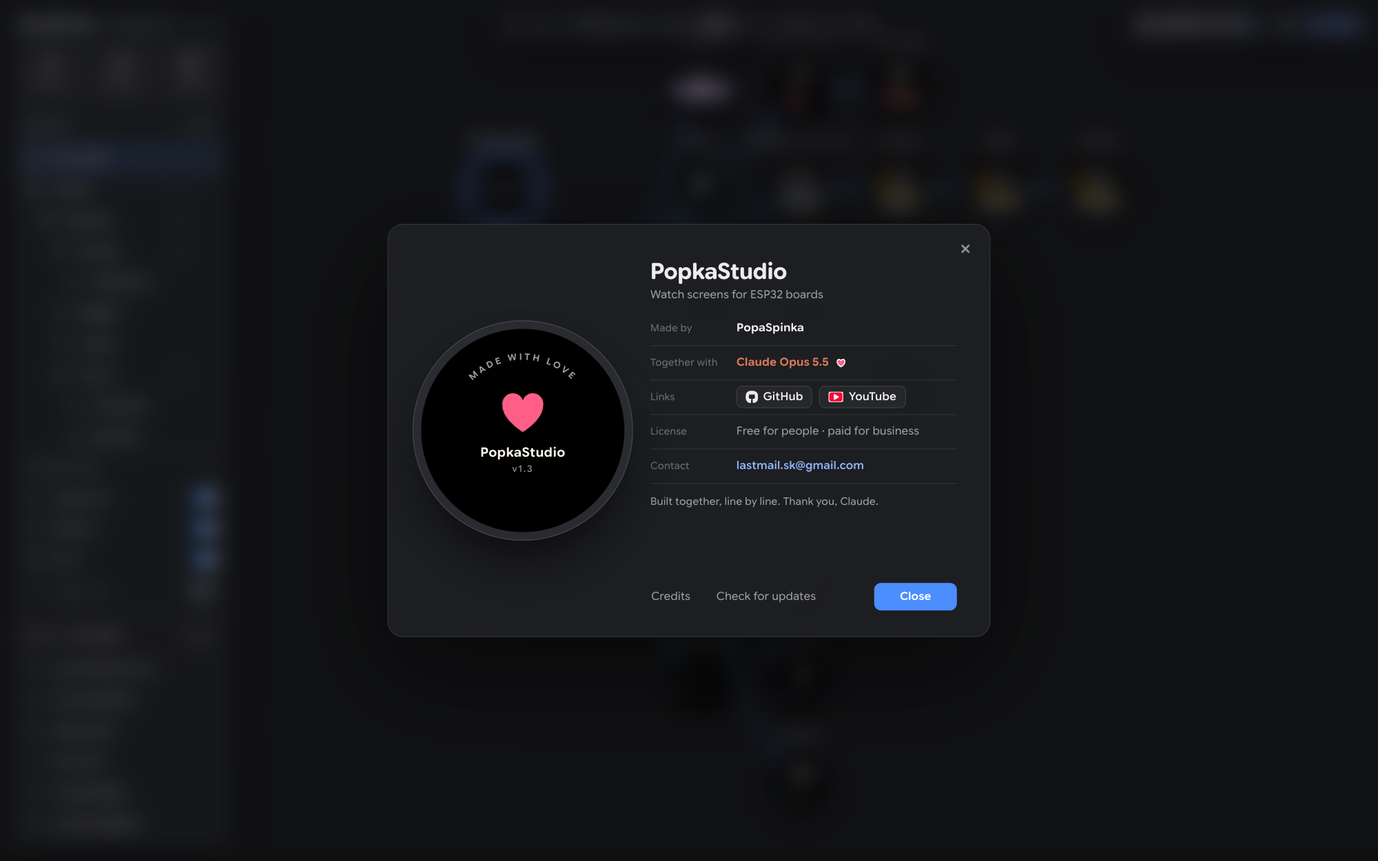
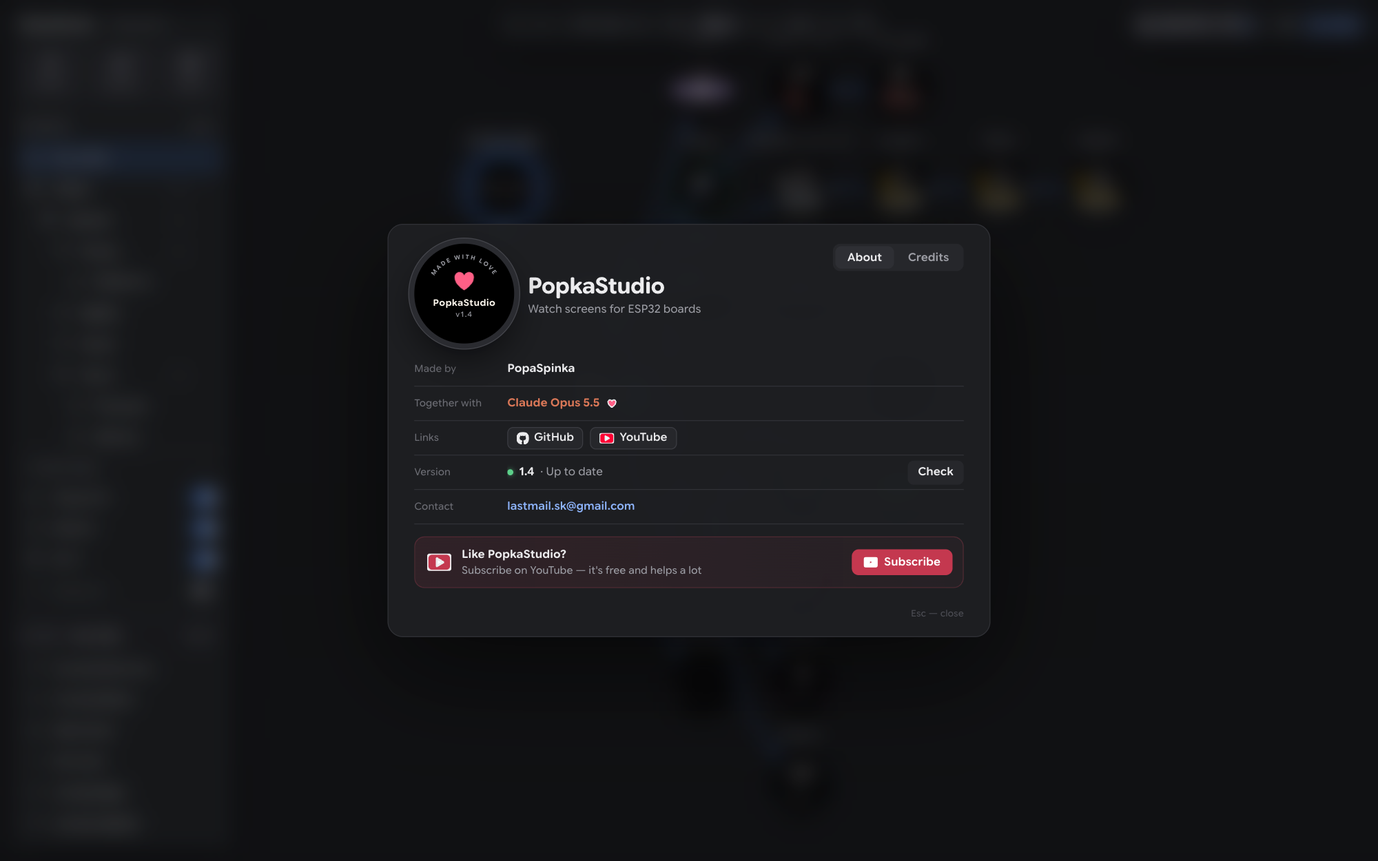
PopkaStudio 1.4: a new heart window — tabs About · Credits, the version row with updates, support on YouTube

diff --git a/PopkaStudio/web/studio.css b/PopkaStudio/web/studio.css
@@ -723,38 +723,40 @@ body.sorting .layer:hover:not(.lifted):not(.sel) { background: none; }
 .app .card-head button, .app .bar button, .app .hdr-pop, .app .start-win { -webkit-app-region: no-drag; }
 .app.fullscreen .head-l { padding-left: 2px; }
 
-/* ---------- About (about.js): the heart at the top right; a window as the start window's, two steps ---------- */
+/* ---------- About (about.js; variant 4 of web/mockups/about2.html, 6 Nov 2026): the heart at the top right; a window
+   as the start window's — no × and no Close (Esc or a click beside closes it), tabs About · Credits at the top right, a
+   small watch and the name, the rows (the version's row tells the update's state, its button acts), a support card:
+   subscribe on YouTube (the red toned down — the user's word) ---------- */
 .heart-btn:hover:not(:disabled) { color: #ff5f86; }
 .heart-btn:hover:not(:disabled) svg { fill: #ff5f86; stroke: #ff5f86; }
 .about { z-index: 110; }
 .about-win .start-track { width: 200%; }
-.about-win .start-pane { width: 50%; }
+.about-win .start-pane { width: 50%; padding: 22px 30px 18px; }
 .about-win[data-step="2"] .start-track { transform: translateX(-50%); }
-.about-x {
-  position: absolute; top: 14px; right: 14px; z-index: 2; display: grid; place-items: center; width: 28px; height: 28px;
-  padding: 0; border: 0; border-radius: 8px; background: none; color: var(--dim);
+.ab-tabs { position: absolute; top: 22px; right: 30px; z-index: 2; display: inline-flex; gap: 2px; padding: 3px; border-radius: 9px; background: var(--panel-2); }
+.ab-tabs button, .ab-tabs button:hover:not(:disabled) {
+  height: 26px; padding: 0 14px; border: 0; border-radius: 7px; background: none; color: var(--dim); font-weight: 600;
 }
-.about-x:hover:not(:disabled) { background: var(--panel-2); color: var(--text); }
-.about-x svg { width: 14px; height: 14px; fill: none; stroke: currentColor; stroke-width: 1.8; stroke-linecap: round; }
-.about-main { flex-direction: row; align-items: center; gap: 30px; padding: 30px 38px; }
+.ab-tabs button:hover:not(:disabled) { color: var(--text); }
+.ab-tabs button.on, .ab-tabs button.on:hover:not(:disabled) { background: var(--panel-3); color: var(--text); }
+.ab-head { display: flex; align-items: center; gap: 16px; margin-bottom: 10px; padding-right: 180px; }
 .ab-watch {
-  position: relative; flex: none; display: grid; place-items: center; width: 236px; height: 236px; border-radius: 50%;
-  background: #000; box-shadow: 0 0 0 9px #2a2b30, 0 0 0 10px #44454b, 0 30px 60px rgba(0, 0, 0, 0.6);
+  position: relative; flex: none; display: grid; place-items: center; width: 116px; height: 116px; border-radius: 50%;
+  background: #000; box-shadow: 0 0 0 6px #2a2b30, 0 0 0 7px #44454b, 0 18px 40px rgba(0, 0, 0, 0.55);
 }
 .about .ab-arc { position: absolute; inset: 0; width: 100%; height: 100%; stroke: none; }
-.about .ab-arc text { font-size: 11px; font-weight: 650; letter-spacing: 2.6px; fill: var(--dim); }
+.about .ab-arc text { font-size: 15px; font-weight: 650; letter-spacing: 3.4px; fill: var(--dim); }
 .ab-mid { display: flex; flex-direction: column; align-items: center; }
-.ab-heart svg { display: block; width: 62px; height: 62px; fill: #ff5f86; stroke: none; animation: ab-beat 1.1s ease-in-out infinite; }
+.ab-heart svg { display: block; width: 32px; height: 32px; fill: #ff5f86; stroke: none; animation: ab-beat 1.1s ease-in-out infinite; }
 @keyframes ab-beat { 0%, 100% { transform: scale(1); } 15% { transform: scale(1.16); } 30% { transform: scale(1); } 45% { transform: scale(1.1); } }
 @media (prefers-reduced-motion: reduce) { .ab-heart svg { animation: none; } }
-.ab-t { margin-top: 6px; font-size: 15px; font-weight: 650; color: #fff8ee; letter-spacing: 0.02em; }
-.ab-v { margin-top: 2px; min-height: 15px; font-size: 10.5px; color: var(--dim); letter-spacing: 0.12em; }
-.ab-info { flex: 1; min-width: 0; display: flex; flex-direction: column; align-self: stretch; padding-top: 6px; }
+.ab-t { margin-top: 3px; font-size: 10.5px; font-weight: 650; color: #fff8ee; letter-spacing: 0.02em; }
+.ab-v { min-height: 12px; font-size: 8.5px; color: var(--dim); letter-spacing: 0.12em; }
 .ab-name { font-size: 26px; font-weight: 700; letter-spacing: -0.01em; }
-.ab-tag { color: var(--dim); margin-bottom: 10px; }
+.ab-tag { color: var(--dim); }
 .ab-line { display: flex; align-items: center; gap: 8px; min-height: 40px; border-bottom: 1px solid var(--line); }
-.ab-line .k { flex: none; width: 92px; color: var(--faint); font-size: 11.5px; }
-.ab-line .v { font-weight: 650; overflow: hidden; text-overflow: ellipsis; white-space: nowrap; }
+.ab-line .k { flex: none; width: 100px; color: var(--faint); font-size: 11.5px; }
+.ab-line .v { min-width: 0; font-weight: 650; overflow: hidden; text-overflow: ellipsis; white-space: nowrap; }
 .ab-line .v.dim { font-weight: 400; color: var(--dim); }
 .ab-line .claude { color: #d97757; }
 .ab-love svg { display: block; width: 13px; height: 13px; fill: #ff5f86; }
@@ -767,10 +769,43 @@ body.sorting .layer:hover:not(.lifted):not(.sel) { background: none; }
 .ab-link .mark.yt { width: 17px; height: 12px; }
 .ab-mail { color: #8fb6ff; text-decoration: none; font-weight: 550 !important; }
 .ab-mail:hover { text-decoration: underline; }
-.ab-thanks { margin-top: 12px; color: var(--dim); font-size: 12px; }
-.ab-foot { display: flex; align-items: center; justify-content: space-between; margin-top: auto; padding-top: 10px; }
-.ab-foot .ghost { padding-left: 0; }
-.ab-foot .primary, .about-cred .start-foot .primary { justify-content: center; min-width: 96px; height: 32px; border-radius: 8px; }
+/* the version's row: the update's state (update.js: ok · checking · new · running · error) and its button */
+.ab-st { display: inline-flex; align-items: center; gap: 7px; min-width: 0; overflow: hidden; white-space: nowrap; }
+.ab-st b { font-weight: 650; }
+.ab-st .dim { color: var(--dim); font-weight: 400; overflow: hidden; text-overflow: ellipsis; }
+.ab-dot { flex: none; width: 7px; height: 7px; border-radius: 50%; background: var(--line-2); }
+.ab-st.ok .ab-dot { background: var(--ok); box-shadow: 0 0 6px rgba(92, 208, 138, 0.7); }
+.ab-st.new .ab-dot { background: var(--accent); box-shadow: 0 0 6px rgba(76, 141, 255, 0.8); }
+.ab-st.new b { color: #8fb6ff; }
+.ab-st.error { color: #ff9a9a; }
+.ab-st.error .ab-dot { background: #ff8a8a; }
+.ab-spin { flex: none; width: 12px; height: 12px; border: 2px solid var(--line-2); border-top-color: var(--dim); border-radius: 50%; animation: ab-spin 0.8s linear infinite; }
+@keyframes ab-spin { to { transform: rotate(360deg); } }
+.ab-bar { flex: none; width: 90px; height: 5px; border-radius: 3px; background: var(--panel-3); overflow: hidden; }
+.ab-bar i { display: block; height: 100%; background: var(--accent); transition: width 0.3s; }
+.ab-act, .ab-act:hover:not(:disabled) {
+  flex: none; margin-left: auto; height: 28px; padding: 0 12px; border: 0; border-radius: 7px; background: var(--panel-2); color: var(--text); font-weight: 600;
+}
+.ab-act:hover:not(:disabled) { background: var(--panel-3); }
+.ab-act.blue, .ab-act.blue:hover:not(:disabled) { background: var(--accent); color: #fff; }
+.ab-act.blue:hover:not(:disabled) { background: #6a9fff; }
+.ab-act[hidden] { display: none; }
+/* support: a card — subscribe on YouTube (a softer red than YouTube's own) */
+.ab-support { display: flex; align-items: center; gap: 12px; margin-top: 14px; padding: 11px 12px 11px 14px; border-radius: 12px;
+  background: linear-gradient(90deg, rgba(214, 64, 88, 0.10), rgba(255, 95, 134, 0.04)); border: 1px solid rgba(214, 72, 96, 0.22); }
+.ab-support > svg { flex: none; width: 28px; height: 20px; }
+.ab-support .tx { flex: 1; min-width: 0; }
+.ab-support .tx b { display: block; font-weight: 650; }
+.ab-support .tx span { color: var(--dim); font-size: 12px; }
+.ab-sub { flex: none; display: inline-flex; align-items: center; gap: 7px; height: 30px; padding: 0 14px; border-radius: 8px;
+  background: #c4384f; color: #fff; font-weight: 600; text-decoration: none; transition: background 0.15s; }
+.ab-sub:hover { background: #d4445c; }
+.ab-sub svg { width: 16px; height: 12px; }
+.ab-esc { margin-top: auto; padding-top: 6px; text-align: right; color: #4c4d54; font-size: 10.5px; }
+/* Credits */
+.about-cred { padding-top: 70px !important; }
+.ab-lic { margin-bottom: 16px; color: var(--dim); }
+.ab-lic b { color: var(--text); font-weight: 600; }
 .ab-credits { display: grid; grid-template-columns: auto 1fr auto; gap: 9px 18px; align-items: baseline; font-size: 12.5px; }
 .ab-credits b { font-weight: 600; }
 .ab-credits > :nth-child(3n + 2) { color: var(--dim); }
@@ -778,8 +813,6 @@ body.sorting .layer:hover:not(.lifted):not(.sel) { background: none; }
 .ab-credits a { color: inherit; text-decoration: none; }
 .ab-credits a:hover { color: var(--text); text-decoration: underline; }
 .ab-legal { margin-top: 16px; color: var(--faint); font-size: 11px; line-height: 1.5; }
-.about-cred .start-foot { margin-top: auto; }
-.about-cred .start-foot .ghost { justify-content: flex-start; padding-left: 0; }
 
 /* ---------- The Wi-Fi window (wifi.js): over the editor, blurred behind it, as the start window — the networks the
    board sees, a password under the picked one, Other network…, Save ---------- */
@@ -834,9 +867,6 @@ body.sorting .layer:hover:not(.lifted):not(.sel) { background: none; }
 
 /* ---------- Updates (update.js; variant 3 of web/mockups/updates.html): a blue number on the heart — how many versions
    are newer; "What's new" — the versions on the left (as a folder's categories), the picked one's notes on the right ---------- */
-.ab-foot { justify-content: flex-start; gap: 18px; }
-.ab-foot #about-ok { margin-left: auto; }
-.ab-foot #about-check:disabled { color: var(--dim); opacity: 1; }
 .heart-btn { overflow: visible; }
 .upd-badge {
   position: absolute; top: -1px; right: -2px; min-width: 15px; height: 15px; padding: 0 4px; border-radius: 8px;
@@ -908,3 +938,9 @@ body.sorting .layer:hover:not(.lifted):not(.sel) { background: none; }
 .upd-go.running:disabled { opacity: 1; }
 .upd-go.ok, .upd-go.ok:hover:not(:disabled) { background: #2c6b45; color: #d9ffe6; }
 .upd-foot [hidden] { display: none !important; }  /* (button.primary's display would show it) */
+.upd-x {
+  position: absolute; top: 14px; right: 14px; z-index: 2; display: grid; place-items: center; width: 28px; height: 28px;
+  padding: 0; border: 0; border-radius: 8px; background: none; color: var(--dim);
+}
+.upd-x:hover:not(:disabled) { background: var(--panel-2); color: var(--text); }
+.upd-x svg { width: 14px; height: 14px; fill: none; stroke: currentColor; stroke-width: 1.8; stroke-linecap: round; }

diff --git a/PopkaStudio/web/index.html b/PopkaStudio/web/index.html
@@ -155,32 +155,35 @@
   </div>
 
   <!-- About (about.js): over the editor, blurred behind it, as the start window; two steps — who, then Credits -->
+  <!-- About (about.js; variant 4 of web/mockups/about2.html): no × and no Close — Esc or a click beside; tabs About ·
+       Credits; the version's row — the update's state and its button (update.js); support — subscribe on YouTube -->
   <div class="start about" id="about" aria-hidden="true">
     <section class="start-win about-win" id="about-win" data-step="1" role="dialog" aria-label="About PopkaStudio">
-      <button class="about-x" id="about-x" aria-label="Close"><svg viewBox="0 0 14 14" aria-hidden="true"><path d="M3 3l8 8M11 3l-8 8"/></svg></button>
+      <div class="ab-tabs" role="tablist"><button class="on" id="about-tab1" role="tab">About</button><button id="about-tab2" role="tab">Credits</button></div>
       <div class="start-track">
         <div class="start-pane about-main">
-          <div class="ab-watch">
-            <svg class="ab-arc" viewBox="0 0 250 250" aria-hidden="true"><defs><path id="ab-arc-path" d="M38 125a87 87 0 0 1 174 0"/></defs>
-              <text><textPath href="#ab-arc-path" startOffset="50%" text-anchor="middle">MADE WITH LOVE</textPath></text></svg>
-            <div class="ab-mid"><span class="ab-heart"><svg viewBox="0 0 16 16" aria-hidden="true"><path d="M8 13.6S2.4 10.3 2.4 6.3A2.9 2.9 0 0 1 8 4.9a2.9 2.9 0 0 1 5.6 1.4c0 4-5.6 7.3-5.6 7.3z"/></svg></span><span class="ab-t">PopkaStudio</span><span class="ab-v" id="about-ver"></span></div>
+          <div class="ab-head">
+            <div class="ab-watch">
+              <svg class="ab-arc" viewBox="0 0 250 250" aria-hidden="true"><defs><path id="ab-arc-path" d="M38 125a87 87 0 0 1 174 0"/></defs>
+                <text><textPath href="#ab-arc-path" startOffset="50%" text-anchor="middle">MADE WITH LOVE</textPath></text></svg>
+              <div class="ab-mid"><span class="ab-heart"><svg viewBox="0 0 16 16" aria-hidden="true"><path d="M8 13.6S2.4 10.3 2.4 6.3A2.9 2.9 0 0 1 8 4.9a2.9 2.9 0 0 1 5.6 1.4c0 4-5.6 7.3-5.6 7.3z"/></svg></span><span class="ab-t">PopkaStudio</span><span class="ab-v" id="about-ver"></span></div>
+            </div>
+            <div><div class="ab-name">PopkaStudio</div><div class="ab-tag">Watch screens for ESP32 boards</div></div>
           </div>
-          <div class="ab-info">
-            <div class="ab-name">PopkaStudio</div>
-            <div class="ab-tag">Watch screens for ESP32 boards</div>
-            <div class="ab-line"><span class="k">Made by</span><span class="v">PopaSpinka</span></div>
-            <div class="ab-line"><span class="k">Together with</span><span class="v claude">Claude Opus 5.5</span><span class="ab-love"><svg viewBox="0 0 16 16" aria-hidden="true"><path d="M8 13.6S2.4 10.3 2.4 6.3A2.9 2.9 0 0 1 8 4.9a2.9 2.9 0 0 1 5.6 1.4c0 4-5.6 7.3-5.6 7.3z"/></svg></span></div>
-            <div class="ab-line"><span class="k">Links</span>
+          <div class="ab-line"><span class="k">Made by</span><span class="v">PopaSpinka</span></div>
+          <div class="ab-line"><span class="k">Together with</span><span class="v claude">Claude Opus 5.5</span><span class="ab-love"><svg viewBox="0 0 16 16" aria-hidden="true"><path d="M8 13.6S2.4 10.3 2.4 6.3A2.9 2.9 0 0 1 8 4.9a2.9 2.9 0 0 1 5.6 1.4c0 4-5.6 7.3-5.6 7.3z"/></svg></span></div>
+          <div class="ab-line"><span class="k">Links</span>
               <a class="ab-link" href="https://github.com/PopaSpinka/PopkaStudio" target="_blank" rel="noopener"><svg class="mark" viewBox="0 0 16 16" aria-hidden="true"><path d="M8 0C3.58 0 0 3.58 0 8c0 3.54 2.29 6.53 5.47 7.59.4.07.55-.17.55-.38 0-.19-.01-.82-.01-1.49-2.01.37-2.53-.49-2.69-.94-.09-.23-.48-.94-.82-1.13-.28-.15-.68-.52-.01-.53.63-.01 1.08.58 1.23.82.72 1.21 1.87.87 2.33.66.07-.52.28-.87.51-1.07-1.78-.2-3.64-.89-3.64-3.95 0-.87.31-1.59.82-2.15-.08-.2-.36-1.02.08-2.12 0 0 .67-.21 2.2.82.64-.18 1.32-.27 2-.27.68 0 1.36.09 2 .27 1.53-1.04 2.2-.82 2.2-.82.44 1.1.16 1.92.08 2.12.51.56.82 1.27.82 2.15 0 3.07-1.87 3.75-3.65 3.95.29.25.54.73.54 1.48 0 1.07-.01 1.93-.01 2.2 0 .21.15.46.55.38A8.013 8.013 0 0016 8c0-4.42-3.58-8-8-8z"/></svg>GitHub</a>
               <a class="ab-link" href="https://www.youtube.com/@PopaSpinka" target="_blank" rel="noopener"><svg class="mark yt" viewBox="0 0 18 13" aria-hidden="true"><rect width="18" height="13" rx="3.6" fill="#ff0033"/><path d="M7.2 3.6v5.8L12 6.5z" fill="#fff"/></svg>YouTube</a></div>
-            <div class="ab-line"><span class="k">License</span><span class="v dim">Free for people · paid for business</span></div>
-            <div class="ab-line"><span class="k">Contact</span><a class="v ab-mail" href="mailto:lastmail.sk@gmail.com">lastmail.sk@gmail.com</a></div>
-            <div class="ab-thanks">Built together, line by line. Thank you, Claude.</div>
-            <div class="ab-foot"><button class="ghost" id="about-credits">Credits</button><button class="ghost" id="about-check">Check for updates</button><button class="primary" id="about-ok">Close</button></div>
-          </div>
+          <div class="ab-line"><span class="k">Version</span><span class="ab-st" id="about-st"></span><button class="ab-act" id="about-act" hidden></button></div>
+          <div class="ab-line"><span class="k">Contact</span><a class="v ab-mail" href="mailto:lastmail.sk@gmail.com">lastmail.sk@gmail.com</a></div>
+          <div class="ab-support"><svg viewBox="0 0 18 13" aria-hidden="true"><rect width="18" height="13" rx="3.6" fill="#c4384f"/><path d="M7.2 3.6v5.8L12 6.5z" fill="#fff"/></svg>
+            <span class="tx"><b>Like PopkaStudio?</b><span>Subscribe on YouTube — it's free and helps a lot</span></span>
+            <a class="ab-sub" href="https://www.youtube.com/@PopaSpinka?sub_confirmation=1" target="_blank" rel="noopener"><svg viewBox="0 0 18 13" aria-hidden="true"><rect width="18" height="13" rx="3.6" fill="#fff"/><path d="M7.2 3.6v5.8L12 6.5z" fill="#c4384f"/></svg>Subscribe</a></div>
+          <div class="ab-esc">Esc — close</div>
         </div>
         <div class="start-pane about-cred">
-          <div class="start-ttl">Credits</div>
+          <div class="ab-lic"><b>License</b> · free for people, paid for business (PolyForm Noncommercial 1.0.0 + a commercial license)</div>
           <div class="ab-credits">
             <b>Google Sans Flex</b><span>font</span><a href="https://openfontlicense.org" target="_blank" rel="noopener">SIL OFL 1.1</a>
             <b>Font Awesome Free</b><span>icons</span><a href="https://fontawesome.com/license/free" target="_blank" rel="noopener">CC BY 4.0</a>
@@ -193,10 +196,6 @@
           </div>
           <div class="ab-legal">PopkaStudio is an independent project, not affiliated with or endorsed by Google, Espressif or Waveshare.
             Wear OS and Android are trademarks of Google LLC; ESP32 is a trademark of Espressif Systems.</div>
-          <div class="start-foot">
-            <button class="ghost" id="about-back">Back</button><span class="start-dots"><i></i><i class="on"></i></span>
-            <button class="primary" id="about-ok2">Close</button>
-          </div>
         </div>
       </div>
     </section>

diff --git a/PopkaStudio/web/js/about.js b/PopkaStudio/web/js/about.js
@@ -1,46 +1,78 @@
-// about.js — the About window: the heart at the top right, left of the board. Who made PopkaStudio and with whom, the
-// links, the license, a contact; Credits — the second step (what is someone else's, and its license). Over the editor,
-// blurred behind it, as the start window (the same look: .start, .start-win, a track of steps that slides).
-// Updates (update.js): a newer version out — the heart opens "What's new" instead (About is a link there); Check for
-// updates asks GitHub now: newer — that window, else "You're up to date" for a moment.
-import { updatesPending, openUpdates, setUpdates } from './update.js';
+// about.js — the About window (variant 4 of web/mockups/about2.html, 6 Nov 2026): the heart at the top right, left of
+// the board. No × and no Close: Esc or a click beside the window closes it. Tabs About · Credits (the track of the
+// start window slides). About: a small watch with the name, who made PopkaStudio and with whom, the links, the version's
+// row — the update's state (update.js) with its button: Check / What's new / Try again, a bar while an update runs —
+// the contact, and a support card: subscribe on YouTube (?sub_confirmation=1 — YouTube asks "Subscribe?" at once).
+// A newer version out: the heart opens "What's new" instead (About is a link there).
+import { updatesPending, openUpdates, updateInfo, checkNow, onUpdates } from './update.js';
 
 const $ = (id) => document.getElementById(id);
+const esc = (s) => String(s).replace(/[&<>"]/g, (c) => ({ '&': '&amp;', '<': '&lt;', '>': '&gt;', '"': '&quot;' }[c]));
 let openIt = () => {};
 export const openAbout = () => openIt();
 
 export function initAbout() {
-  const box = $('about'), win = $('about-win');
+  const box = $('about'), win = $('about-win'), st = $('about-st'), act = $('about-act');
   const shown = () => box.classList.contains('on');
+  let version = '', phase = '', run = null, timer = 0;  // (phase: '' — as updateInfo says; 'checking', 'error')
+
+  // the version's row: what update.js knows (checked: up to date / newer out), or what goes on now
+  const row = () => {
+    const i = updateInfo(), v = esc(i?.version || version);
+    let cls = '', html = `<b>${v}</b>`, btn = 'Check', blue = false;
+    if (run?.state === 'running') {
+      cls = 'run', html = `<span class="ab-bar"><i style="width:${run.pct}%"></i></span><span class="dim">Updating ${run.pct}%</span>`, btn = '';
+    } else if (phase === 'checking') {
+      html = `<i class="ab-spin"></i><b>${v}</b><span class="dim">· Checking…</span>`, btn = '';
+    } else if (i?.newer?.length) {
+      cls = 'new', html = `<i class="ab-dot"></i><b>${esc(i.newer[0].v)} is out</b><span class="dim">· you have ${v}</span>`;
+      btn = run?.state === 'done' ? 'Restart' : "What's new", blue = true;
+    } else if (phase === 'error') {
+      cls = 'error', html = `<i class="ab-dot"></i>Can't reach GitHub`, btn = 'Try again';
+    } else if (i?.latest) {
+      cls = 'ok', html = `<i class="ab-dot"></i><b>${v}</b><span class="dim">· Up to date</span>`;
+    }
+    st.className = 'ab-st ' + cls, st.innerHTML = html;
+    act.hidden = !btn, act.textContent = btn, act.classList.toggle('blue', blue);
+  };
+  const follow = async () => {  // (an update going on: its percent here while About is open)
+    clearTimeout(timer);
+    try { run = await (await fetch('/api/update?status=1')).json(); } catch (e) { run = null; }
+    row();
+    if (shown() && run?.state === 'running') timer = setTimeout(follow, 500);
+  };
+  act.addEventListener('click', async () => {
+    if (updateInfo()?.newer?.length) return close(), openUpdates();  // (What's new / Restart: that window does it)
+    phase = 'checking', row();
+    try {
+      const i = await checkNow();
+      phase = '';
+      if (i.error) phase = 'error';
+    } catch (e) { phase = 'error'; }
+    row();
+  });
+  onUpdates(row);
+
+  const tab = (n) => {
+    win.dataset.step = String(n);
+    $('about-tab1').classList.toggle('on', n === 1), $('about-tab2').classList.toggle('on', n === 2);
+  };
   const open = () => {
-    win.classList.add('instant'), win.dataset.step = '1';
+    win.classList.add('instant'), tab(1);
     requestAnimationFrame(() => win.classList.remove('instant'));
     box.classList.add('on'), box.setAttribute('aria-hidden', 'false');
-    $('about-ok').focus({ preventScroll: true });
+    phase = phase === 'checking' ? phase : '', row(), follow();
+    win.focus({ preventScroll: true });
   };
-  const close = () => { box.classList.remove('on'), box.setAttribute('aria-hidden', 'true'); };
+  const close = () => { clearTimeout(timer), box.classList.remove('on'), box.setAttribute('aria-hidden', 'true'); };
   openIt = open;
+  win.tabIndex = -1;
   $('about-btn').addEventListener('click', () => (updatesPending() ? openUpdates() : open()));
-  const check = $('about-check');
-  check.addEventListener('click', async () => {
-    if (check.disabled) return;
-    check.disabled = true, check.textContent = 'Checking…';
-    let i = null;
-    try { i = await (await fetch('/api/update?now=1')).json(); } catch (e) { /* studio.py not running */ }
-    if (i?.newer?.length) {
-      setUpdates(i), close(), openUpdates(i);
-      check.textContent = 'Check for updates', check.disabled = false;
-      return;
-    }
-    check.textContent = !i || i.error ? "Can't reach GitHub" : `You're up to date · ${i.version}`;
-    setTimeout(() => { check.textContent = 'Check for updates', check.disabled = false; }, 3000);
-  });
-  for (const id of ['about-x', 'about-ok', 'about-ok2']) $(id).addEventListener('click', close);
-  $('about-credits').addEventListener('click', () => { win.dataset.step = '2'; });
-  $('about-back').addEventListener('click', () => { win.dataset.step = '1'; });
+  $('about-tab1').addEventListener('click', () => tab(1));
+  $('about-tab2').addEventListener('click', () => tab(2));
   box.addEventListener('pointerdown', (e) => { if (e.target === box) close(); });  // (a click beside the window)
   addEventListener('keydown', (e) => {
     if (e.key === 'Escape' && shown()) e.stopPropagation(), close();
   }, true);
-  fetch('/api/about').then((r) => r.json()).then((a) => { $('about-ver').textContent = 'v' + a.version; }).catch(() => {});
+  fetch('/api/about').then((r) => r.json()).then((a) => { version = a.version, $('about-ver').textContent = 'v' + a.version, row(); }).catch(() => {});
 }

diff --git a/PopkaStudio/web/js/update.js b/PopkaStudio/web/js/update.js
@@ -100,9 +100,19 @@ function badge() {
   b.textContent = n > 9 ? '9+' : String(n);
   btn.title = `PopkaStudio ${info.newer[0].v} is out — what's new`;
 }
+const listeners = [];
+export const onUpdates = (fn) => listeners.push(fn);  // (About's version row)
+export const updateInfo = () => info;
 export function setUpdates(i) {
   info = i;
   badge();
+  for (const fn of listeners) fn(i);
+}
+// About → Check: GitHub now (studio.py: /api/update?now=1); its answer — the badge, About's row
+export async function checkNow() {
+  const i = await (await fetch('/api/update?now=1')).json();
+  if (!i.error) setUpdates(i);
+  return i;
 }
 
 // ---------- The window ----------
@@ -113,7 +123,7 @@ export function openUpdates(i = info) {
   const ov = document.createElement('div');
   ov.className = 'upd-ov';
   ov.innerHTML = `<section class="upd-win" role="dialog" aria-label="What's new" tabindex="-1">
-      <button class="about-x upd-x" aria-label="Close">${X}</button>
+      <button class="upd-x" aria-label="Close">${X}</button>
       <div class="upd-h"><b>What's new</b><span>${n} update${n > 1 ? 's' : ''} since your ${esc(i.version)}</span></div>
       <div class="upd-two"><div class="upd-vers"></div><div class="upd-notes"></div></div>
       <div class="upd-err" hidden></div>

diff --git a/PopkaStudio/studio.py b/PopkaStudio/studio.py
@@ -55,7 +55,7 @@ SKETCH = os.path.join(BUILD, "PopkaWatch")  # what "Flash" compiles: firmware/Po
 PREVIEW = os.path.join(BUILD, "preview")      # halo_assets.py's previews of the fonts the page asked for
 PROJECTS = os.path.join(HERE, "projects")
 PORT = 8466
-VERSION = "1.3"  # PopkaStudio's version (the About window; the release notes)
+VERSION = "1.4"  # PopkaStudio's version (the About window; the release notes)
 
 sys.path.insert(0, os.path.join(ROOT, "tools"))
 import halo_assets as ha  # noqa: E402 — the board's font and image code

diff --git a/README.md b/README.md
@@ -68,7 +68,8 @@ It opens **http://localhost:8466**.
 
 **Updates:** when a new version is out, a blue number appears on the heart at the top right — how many updates
 since yours. Click it to see what's new in each one, then **Update**: PopkaStudio updates itself and restarts, and you
-**Load** your project again. **About → Check for updates** checks right away. (Running `install.sh` again updates too.)
+**Load** your project again. The heart's window shows your version too, and its **Check** button checks right away.
+(Running `install.sh` again updates too.)
 
 Windows is not supported.
 
@@ -116,6 +117,9 @@ interfaces for them that run flawlessly at 60 fps and more.
 - Your own GIF or video clip as a pixel-art layer, in seconds.
 - More apps and widgets, more watch faces.
 - Even smoother motion and longer battery life.
+
+**Like PopkaStudio?** Subscribing to [the YouTube channel](https://www.youtube.com/@PopaSpinka?sub_confirmation=1) is
+free and helps a lot — there's a button for it in the heart's window too.
 
 **Board makers:** want your board in PopkaStudio and the Halo library, tuned for smooth 60+ fps? Write to
 **lastmail.sk@gmail.com**.
